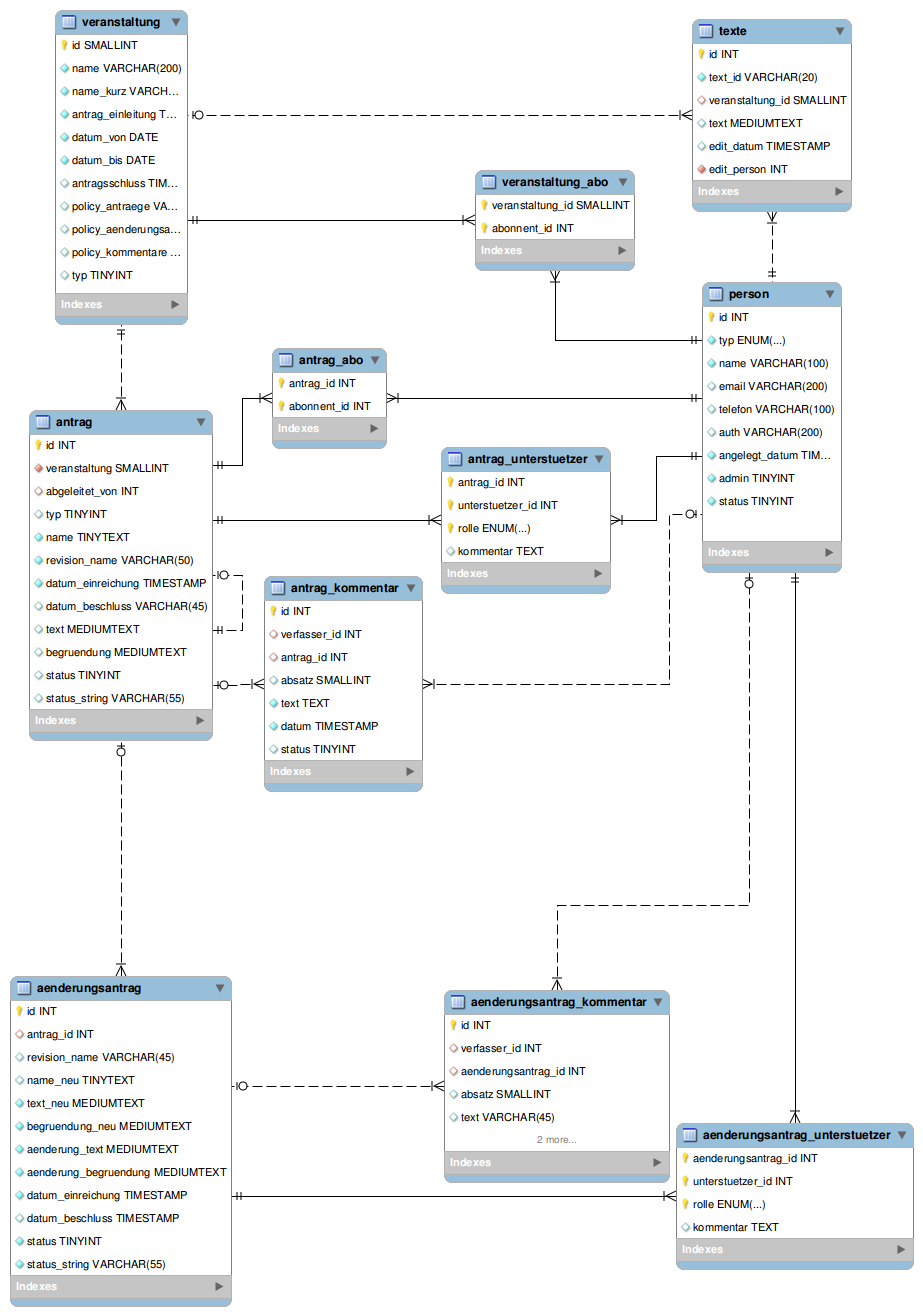
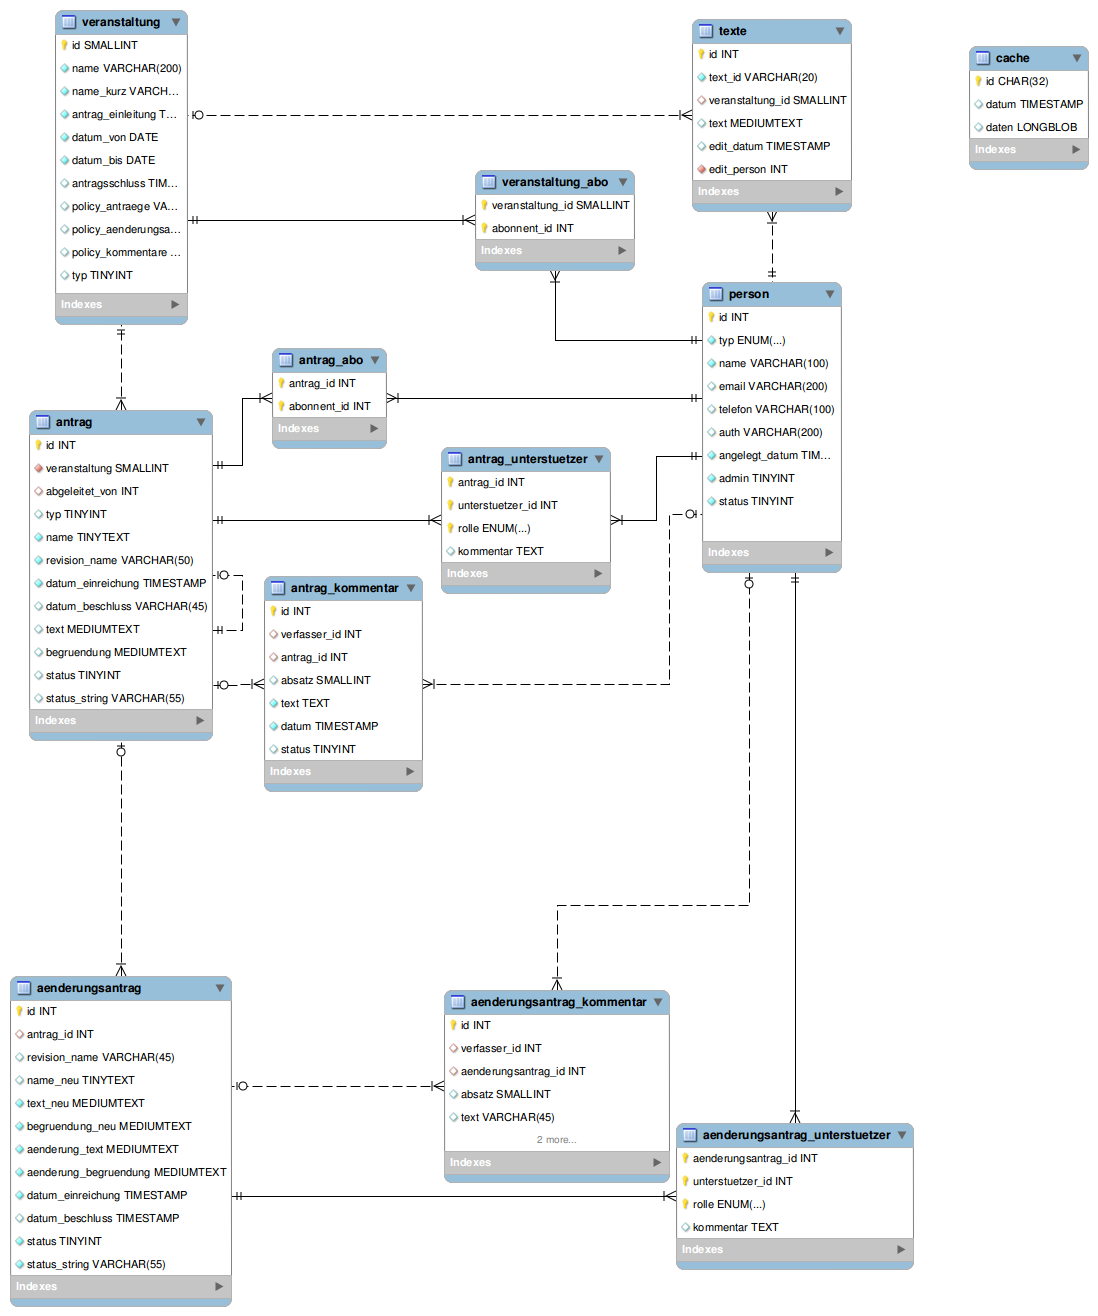
Caching-Framework

diff --git a/protected/models/Cache.php b/protected/models/Cache.php
@@ -1,0 +1,116 @@
+<?php
+
+/**
+ * This is the model class for table "cache".
+ *
+ * The followings are the available columns in table 'cache':
+ * @property string $id
+ * @property string $datum
+ * @property string $daten
+ */
+class Cache extends CActiveRecord
+{
+	/**
+	 * Returns the static model of the specified AR class.
+	 * @param string $className active record class name.
+	 * @return Cache the static model class
+	 */
+	public static function model($className=__CLASS__)
+	{
+		return parent::model($className);
+	}
+
+	/**
+	 * @param string $key
+	 * @return null|mixed
+	 */
+	public static function getObject($key) {
+		$entry = self::model()->findByPk($key);
+		if (is_null($entry)) return null;
+
+		/** @var Cache $entry */
+		return unserialize($entry->daten);
+	}
+
+	/**
+	 * @param string $key
+	 * @param mixed $val
+	 * @return Cache
+	 */
+	public static function setObject($key, $val) {
+		$cache = new Cache();
+		$cache->id = $key;
+		$cache->daten = serialize($val);
+		$cache->datum = new CDbExpression('NOW()');
+		$cache->save();
+		return $cache;
+	}
+
+	/**
+	 * @return string the associated database table name
+	 */
+	public function tableName()
+	{
+		return 'cache';
+	}
+
+	/**
+	 * @return array validation rules for model attributes.
+	 */
+	public function rules()
+	{
+		// NOTE: you should only define rules for those attributes that
+		// will receive user inputs.
+		return array(
+			array('id', 'required'),
+			array('id', 'length', 'max'=>32),
+			array('datum, daten', 'safe'),
+			// The following rule is used by search().
+			// Please remove those attributes that should not be searched.
+			array('id, datum, daten', 'safe', 'on'=>'search'),
+		);
+	}
+
+	/**
+	 * @return array relational rules.
+	 */
+	public function relations()
+	{
+		// NOTE: you may need to adjust the relation name and the related
+		// class name for the relations automatically generated below.
+		return array(
+		);
+	}
+
+	/**
+	 * @return array customized attribute labels (name=>label)
+	 */
+	public function attributeLabels()
+	{
+		return array(
+			'id' => 'ID',
+			'datum' => 'Datum',
+			'daten' => 'Daten',
+		);
+	}
+
+	/**
+	 * Retrieves a list of models based on the current search/filter conditions.
+	 * @return CActiveDataProvider the data provider that can return the models based on the search/filter conditions.
+	 */
+	public function search()
+	{
+		// Warning: Please modify the following code to remove attributes that
+		// should not be searched.
+
+		$criteria=new CDbCriteria;
+
+		$criteria->compare('id',$this->id,true);
+		$criteria->compare('datum',$this->datum,true);
+		$criteria->compare('daten',$this->daten,true);
+
+		return new CActiveDataProvider($this, array(
+			'criteria'=>$criteria,
+		));
+	}
+}

diff --git a/protected/components/HtmlBBcodeUtils.php b/protected/components/HtmlBBcodeUtils.php
@@ -248,6 +248,10 @@ class HtmlBBcodeUtils
 		$aktuelle_zeile            = "";
 		$aktuelle_zeile_count      = 0;
 
+		$cache_key = md5("text2zeilen" . $max_len . $text);
+		$cached = Cache::getObject($cache_key);
+		if (is_array($cached)) return $cached;
+
 		for ($i = 0; $i < mb_strlen($text); $i++) {
 			$curr_char = mb_substr($text, $i, 1);
 			if ($in_html_modus) {
@@ -293,6 +297,7 @@ class HtmlBBcodeUtils
 		}
 		if (mb_strlen(trim($aktuelle_zeile)) > 0) $zeilen[] = $aktuelle_zeile;
 
+		Cache::setObject($cache_key, $zeilen);
 
 		return $zeilen;
 	}

diff --git a/protected/components/HTML_BBCodeParser_Filter_Antraege.php b/protected/components/HTML_BBCodeParser_Filter_Antraege.php
@@ -37,8 +37,6 @@ class HTML_BBCodeParser_Filter_Antraege extends HTML_BBCodeParser_Filter
 
 	function _preparse()
 	{
-		$options = PEAR::getStaticProperty('HTML_BBCodeParser', '_options');
-
 		$options = array(
 			"quotestyle" => "double",
 			"quotewhat"  => "all",
